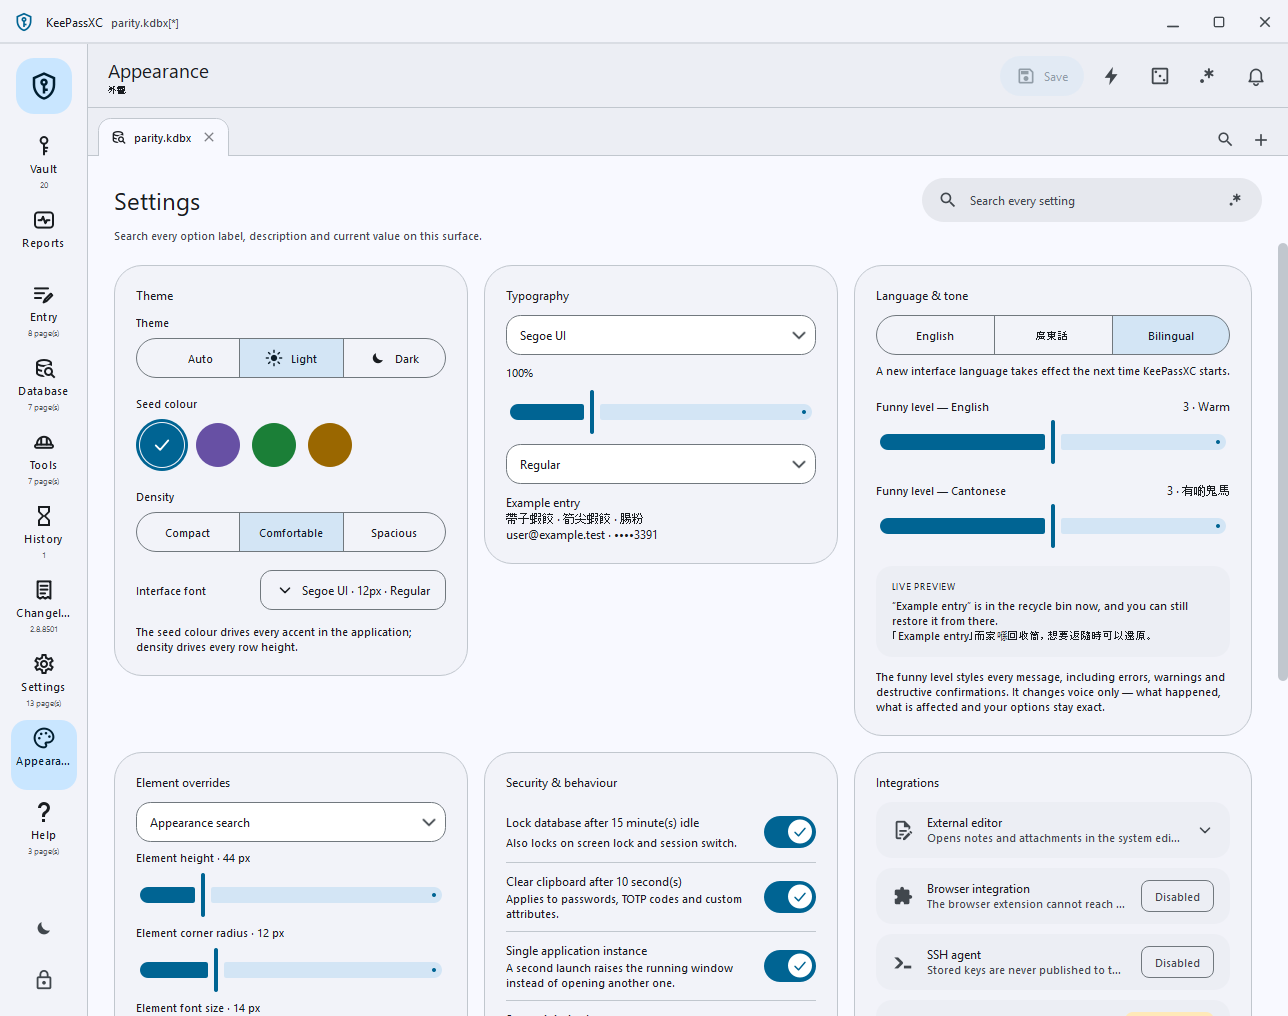
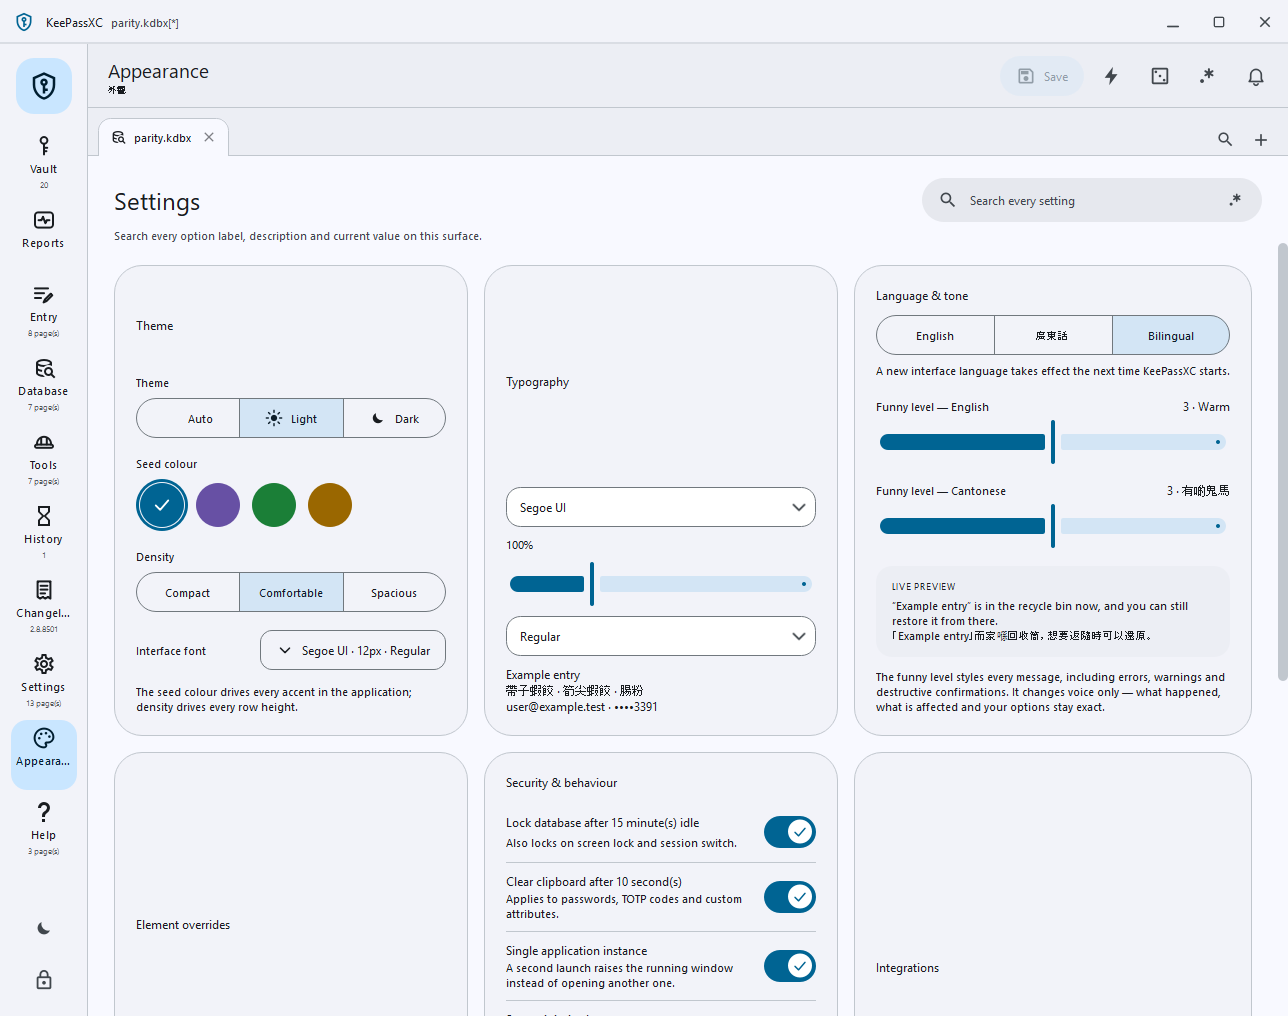
Only raise the wrapped label minimum and refresh three parity captures
The WrapLabel that follows its height-for-width could also lower its
minimum on a narrower pass, and at 1200 x 860 that made the settings scroll
area toggle its bar and the layout bounce between two widths forever: the
capture route never settled and two captures timed out. The minimum is now
only ever raised, which converges. Appearance, Settings and Vault are
recaptured at this build; Appearance drops from 10.67 to 9.82 percent
mismatch now that its sub-labels wrap, the other two are pixel-identical to
their previous captures.

跟住 height-for-width 走嘅 WrapLabel 喺較窄嗰次會將最小高度調低，喺 1200 x 860
就令設定頁嘅 scroll area 不斷切換捲軸、排版喺兩個闊度之間彈嚟彈去永不安定：
capture route 一直等唔到穩定，兩次截圖都超時。而家最小值只升不降，就會收斂。
外觀、設定、Vault 三頁用呢個 build 重影：外觀由 10.67 降到 9.82 個百分點，
因為副標籤終於換到行；另外兩頁同上次截圖逐像素一樣。

diff --git a/src/gui/material/MaterialSettingsScreen.cpp b/src/gui/material/MaterialSettingsScreen.cpp
@@ -95,8 +95,11 @@ namespace Material
             void resizeEvent(QResizeEvent* event) override
             {
                 QLabel::resizeEvent(event);
+                // Only ever raise the minimum: lowering it on a narrower pass
+                // makes the scroll area toggle its bar and the layout oscillate
+                // between two widths without settling.
                 const int needed = heightForWidth(event->size().width());
-                if (needed > 0 && needed != minimumHeight()) {
+                if (needed > minimumHeight()) {
                     setMinimumHeight(needed);
                 }
             }
